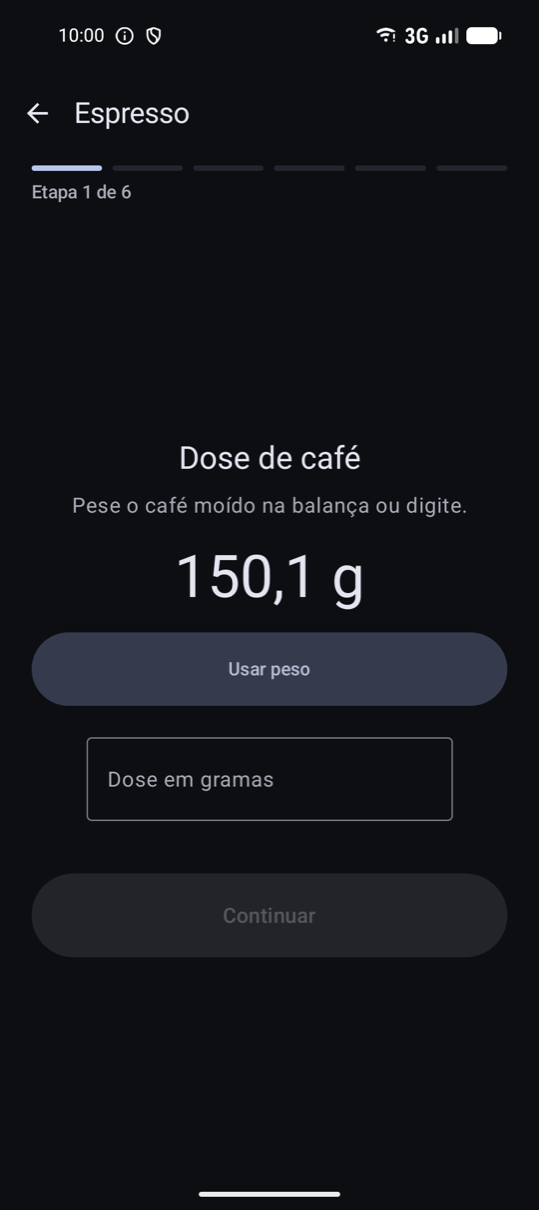
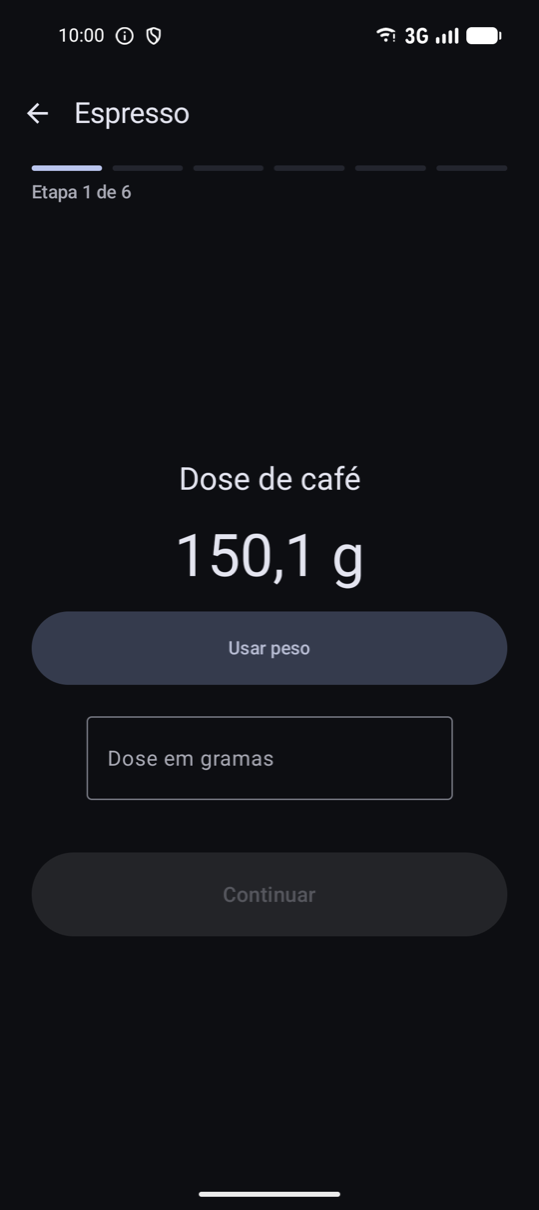
Brew steps: text only where it adds something; "Cup's on" button
Drop the dose, taring and extracting texts (the title and the screen already say it) and shorten the
pour text, which repeated the brewing one. "Cup already tared" becomes "Cup's on" / "Coloquei a xícara".

Changed region(s): [[0.0594, 0.3669, 0.9499, 0.6727], [0.4156, 0.7339, 0.5937, 0.7645]]

diff --git a/app/src/main/java/io/github/mateuxlucax/caparao/ui/brew/BrewGuide.kt b/app/src/main/java/io/github/mateuxlucax/caparao/ui/brew/BrewGuide.kt
@@ -49,14 +49,14 @@ import io.github.mateuxlucax.caparao.model.BrewMode
 import kotlin.math.PI
 import kotlin.math.sin
 
-/** The steps the brew screen walks through, one at a time like the onboarding. */
+/** The steps the brew screen walks through, one at a time like the onboarding. A step has text only when it says something the title and the screen don't. */
 enum class GuideStage(@StringRes val title: Int, @StringRes val text: Int?) {
-    DOSE(R.string.dose_title, R.string.dose_text),
+    DOSE(R.string.dose_title, null),
     CUP(R.string.espresso_place_cup, R.string.espresso_place_cup_text),
-    TARE(R.string.taring, R.string.taring_text),
+    TARE(R.string.taring, null),
     FIRST_DROP(R.string.espresso_ready, R.string.espresso_ready_text),
     POUR(R.string.filter_ready, R.string.filter_ready_text),
-    BREWING_ESPRESSO(R.string.brewing_espresso, R.string.brewing_espresso_text),
+    BREWING_ESPRESSO(R.string.brewing_espresso, null),
     BREWING_FILTER(R.string.brewing_filter, R.string.brewing_filter_text),
     DONE(R.string.brew_saved, null),
 }

diff --git a/app/src/main/java/io/github/mateuxlucax/caparao/ui/brew/BrewScreen.kt b/app/src/main/java/io/github/mateuxlucax/caparao/ui/brew/BrewScreen.kt
@@ -177,7 +177,7 @@ private fun LiveStep(state: BrewUiState, viewModel: BrewViewModel) {
         }
         when (state.phase) {
             BrewPhase.WAITING_FOR_CUP -> OutlinedButton(onClick = viewModel::armNow, Modifier.fillMaxWidth().height(64.dp), enabled = state.connected) {
-                Text(stringResource(R.string.cup_already_tared), style = MaterialTheme.typography.titleMedium)
+                Text(stringResource(R.string.cup_on), style = MaterialTheme.typography.titleMedium)
             }
             BrewPhase.BREWING -> Button(onClick = viewModel::stop, Modifier.fillMaxWidth().height(64.dp)) {
                 Text(stringResource(if (state.mode == BrewMode.ESPRESSO) R.string.stop else R.string.done), style = MaterialTheme.typography.titleMedium)
